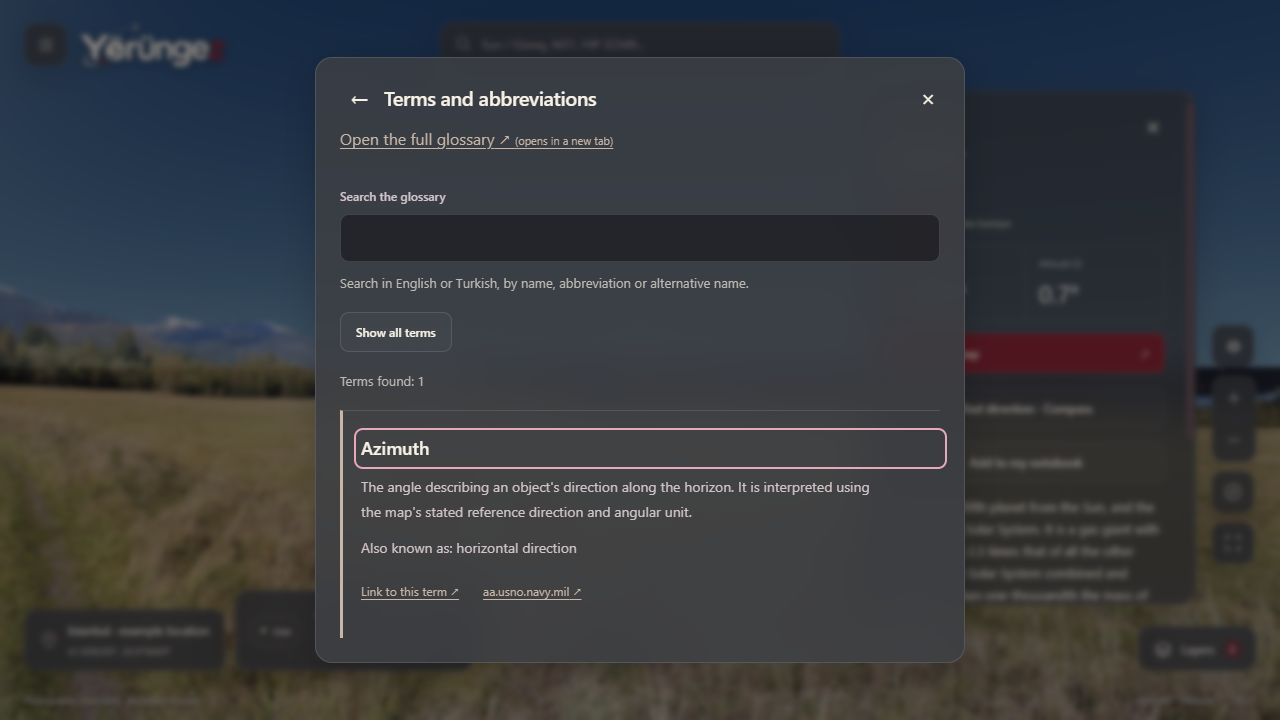
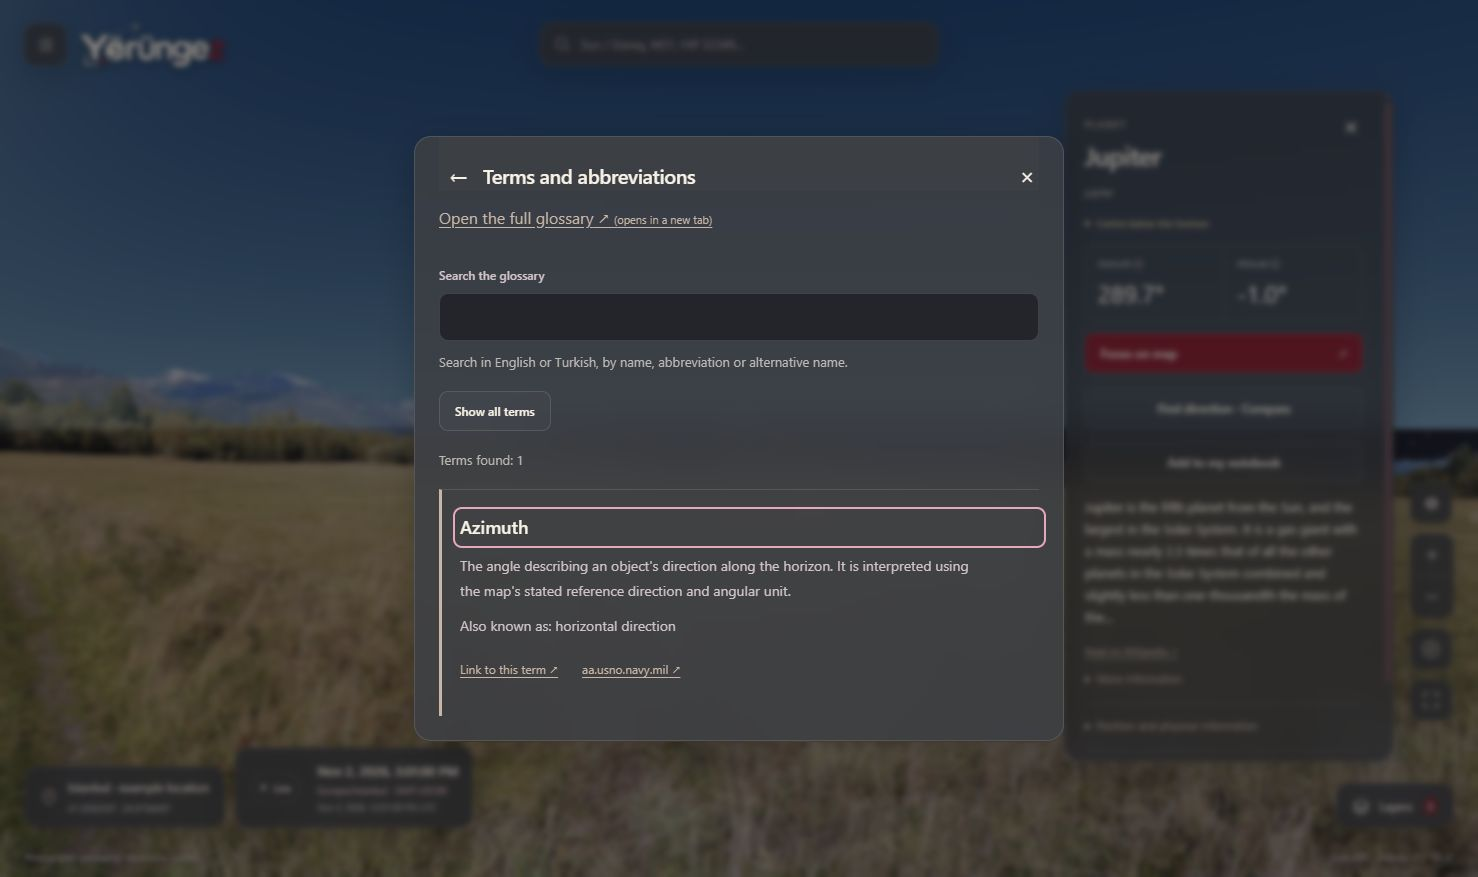
Keep long glossary panel navigation reachable while scrolling

diff --git a/src/Yorungez.Web/app/globals.css b/src/Yorungez.Web/app/globals.css
@@ -123,3 +123,4 @@
 .glossary-browser .term-entry{padding:24px 0;border-top:1px solid var(--border);border-bottom:0;scroll-margin:24px;overflow-wrap:anywhere}.glossary-browser .term-entry[data-selected=true]{border-left:3px solid var(--sand);padding-left:18px}.glossary-browser .term-entry>p{font-size:14px;line-height:1.8;max-width:70ch}.glossary-browser .glossary-aliases{font-size:12px}.term-links{display:flex;flex-wrap:wrap;align-items:baseline;gap:12px 24px;font-size:12px;line-height:1.8}.term-links>a,.term-links li>a{display:inline-block;padding:8px 0}.term-links ul{display:flex;flex-wrap:wrap;gap:8px 18px;list-style:none;padding:0;margin:0}
 @media(max-width:650px){.glossary-page{padding-top:max(20px,env(safe-area-inset-top))}.glossary-page header{margin-bottom:30px}.glossary-page header .brand-logo{width:160px}}
 .glossary-browser .term-list{max-height:none;overflow:visible;padding-right:0}.glossary-browser .term-heading{display:block;font-size:18px;line-height:1.5;margin-bottom:12px;scroll-margin:24px}.glossary-browser .term-heading:focus{outline:2px solid #e7a8b9;outline-offset:5px;border-radius:2px}.glossary-browser .term-heading small{display:inline-block;margin-left:12px;color:var(--sand);font-size:12px}.glossary-browser .term-links a{min-height:44px;font-size:12px;padding:11px 0}
+.glossary-dialog .dialog-top{position:sticky;top:0;z-index:2;background:var(--graphite);box-shadow:0 -24px 0 var(--graphite)}

diff --git a/docs/sozluk-ve-terim-baglantilari.md b/docs/sozluk-ve-terim-baglantilari.md
@@ -19,7 +19,7 @@ Genel, hesap gerektirmeyen sayfalar **`/en/terms`** ve **`/tr/terms`**. Sabit ba
 
 Doğrudan bağlantı ve hash değişimi ilgili başlığı odaklar ve görünür alana getirir. Dil bağlantısı aynı terimi korur. Tarayıcı geri/ileri navigasyonu hash seçimini geri yükler. Arama başlatmak hedef seçimini kaldırır; arama taslağı URL'ye veya tarayıcı kalıcılığına yazılmaz. Eksik/bozuk hash hata fırlatmaz; kullanıcıya açıklanır ve bütün terimler aranabilir kalır. Haritadaki ayrı sayfa/terim bağlantıları yeni sekmede açılarak mevcut haritanın bellekteki bağlamını korur.
 
-Sayfa `h1 → h2`, harita dialog'u `h2 → h3` başlık düzenini kullanır. Sözlükte iç içe iki kaydırma kutusu kaldırıldı; sayfa/dialog kendi yüzeyinde kayar. Uzun başlık/kısaltma ve kaynak adresleri dar ekranda kırılır. Kaynak/terim bağlantılarının dokunma yüksekliği en az 44 px; arama yazısı 16 px'tir.
+Sayfa `h1 → h2`, harita dialog'u `h2 → h3` başlık düzenini kullanır. Sözlükte iç içe iki kaydırma kutusu kaldırıldı; sayfa/dialog kendi yüzeyinde kayar. Uzun panelde geri/kapat başlığı sabit kalır; 52 terimli listenin sonuna klavyeyle gidildiğinde de erişilebilirdir. [Son terimde başlık kanıtı](ux/glossary/long-panel-header-en.jpg). Uzun başlık/kısaltma ve kaynak adresleri dar ekranda kırılır. Kaynak/terim bağlantılarının dokunma yüksekliği en az 44 px; arama yazısı 16 px'tir.
 
 ![Search Turkish while reading English](ux/glossary/search-desktop-en.jpg)
 
@@ -27,7 +27,7 @@ Sayfa `h1 → h2`, harita dialog'u `h2 → h3` başlık düzenini kullanır. Sö
 
 ## Genel PWA ve mahremiyet
 
-`build-offline.mjs`, iki sözlük HTML'ini ve derleme bağımlılıklarını mevcut SHA-256/byte çekirdek envanterine ekler; her HTML'in statik bağımlılıkları derlemede doğrulanır. Test edilen yerel paket **`17e506e5fa91853fc5db`**, **68 çekirdek dosya / yaklaşık 5,2 MiB**; önceki TECH-11B yaklaşık 5,1 MiB idi. İsteğe bağlı 88 görsel/12,7 MiB değişmedi.
+`build-offline.mjs`, iki sözlük HTML'ini ve derleme bağımlılıklarını mevcut SHA-256/byte çekirdek envanterine ekler; her HTML'in statik bağımlılıkları derlemede doğrulanır. Test edilen yerel paket **`f6cf8fe82ae8ce0ff320`**, **68 çekirdek dosya / yaklaşık 5,2 MiB**; önceki TECH-11B yaklaşık 5,1 MiB idi. İsteğe bağlı 88 görsel/12,7 MiB değişmedi.
 
 Önbellek yalnız açık envanterdeki genel GET kaynaklarını kapsar. Sorgulu URL, RSC, POST, kişisel kayıt, oturum ve koordinat önbelleği eklenmedi. Aynı iki dildeki tanımlar statik HTML'de bulunur; arama istemcide çalışır. Sözlük kendi başına yeni PWA kaydı başlatmaz; ilk hazır haritadan sonraki mevcut kayıt/güncelleme sözleşmesi korunur. İlk ziyaret/paket hazırlanmamışsa bağlantı gereksinimi sürer.
 
